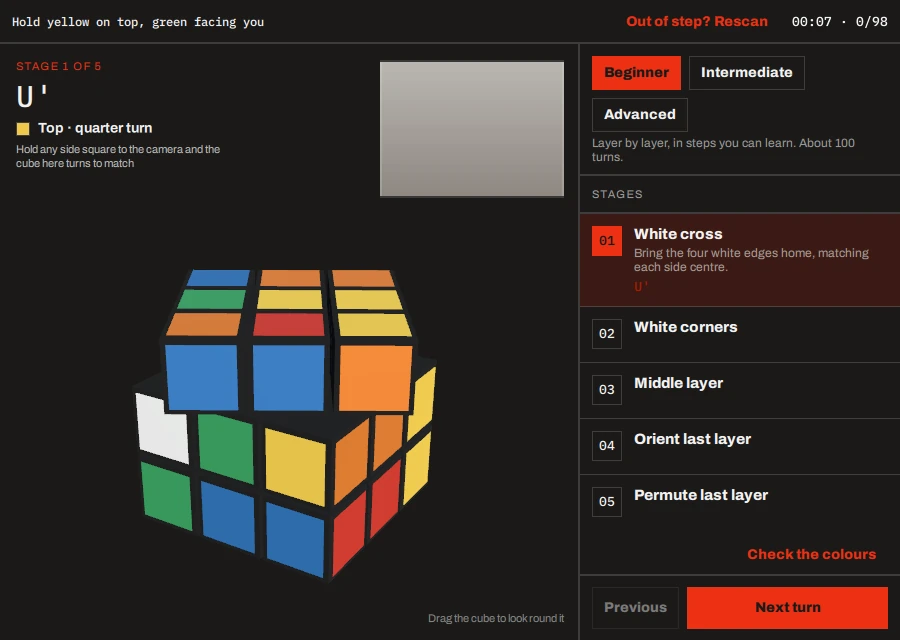
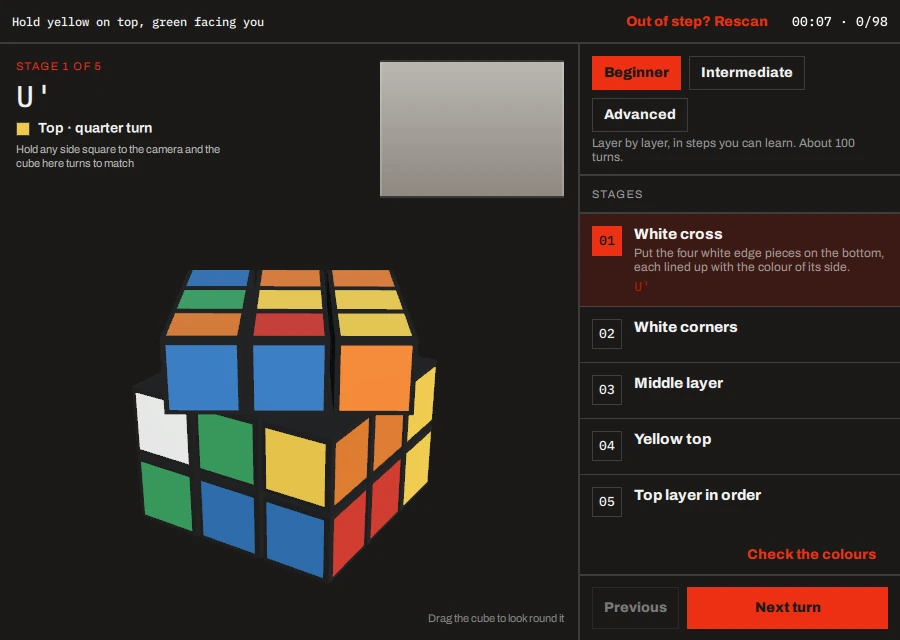
Retake the guide pictures that changed since the last refresh
Settings has a Motion row under Appearance, the solve screen names stages
four and five Yellow top and Top layer in order and has a sentence under
the current stage, the scan screen reads Reading this side. Hold it there,
the scan size row marks only Auto while sizing, and the About line is now
A camera-driven cube solver. The pictures of those screens were taken
before, so they are retaken from the screenshot tour on develop.

Only the pictures whose screens changed are replaced. The others came out
of the tour identical to the eye (drawn-cube noise and the time of day in
the history rows), and committing them would add binary churn for nothing.

The Settings pictures are cut a little lower because the Motion row pushed
the rest down: the wide one after the Cube motion buttons, the narrow one
just under Snapshot now. The tool's comments say how to find the heights
again and give the taller scratch window for the narrow picture. The alt
text of the Settings picture names the Motion row.

Changed region(s): [[0.7156, 0.375, 0.9956, 0.4375], [0.6844, 0.6562, 0.84, 0.7188], [0.6844, 0.75, 0.8711, 0.7812]]

diff --git a/tools/docs/update_guide_screenshots.py b/tools/docs/update_guide_screenshots.py
@@ -31,7 +31,7 @@ Notes for whoever does step 2:
 * The tour runs at 900x640 (wide) and 390x844 (narrow), light and dark. The
   guide's Settings pictures were taken with the window made about twice as
   tall for that one shot (a scratch edit in tour_test.cpp, like the other two:
-  `app.resize` to 900x1280 wide or 390x1688 narrow and `app.settle()` before
+  `app.resize` to 900x1280 wide or 390x1800 narrow and `app.settle()` before
   `tour.shoot("settings")`, then `app.resize(variant.size)` after it), and
   both are then cropped (CROP_HEIGHT below).
 * A scratch run for the pictures also renames the fake camera in
@@ -85,13 +85,15 @@ USED = [
 
 # Pictures cut to a height, so that one does not end on a heading with nothing
 # under it: Settings in the wide tour is taller than the tour's window made for
-# it, and stops part-way down the Rendering section. The narrow one runs to the
-# end of the Developer section and is cut just under "Snapshot now": the line
-# below it names the folder the diagnostics go to, which in a tour run is a
-# temporary folder of the machine it ran on, and must not be in a picture.
+# it, and is cut after the Cube motion buttons, just above the Rendering heading.
+# The narrow one runs to the end of the Developer section and is cut just under
+# "Snapshot now": the line below it names the folder the diagnostics go to, which
+# in a tour run is a temporary folder of the machine it ran on, and must not be in
+# a picture. Both heights move when a row is added to Settings: find them by
+# looking for the first blank rows under the last button to keep.
 CROP_HEIGHT = {
-    ("settings", "wide"): 1115,
-    ("settings", "narrow"): 1597,
+    ("settings", "wide"): 1197,
+    ("settings", "narrow"): 1680,
 }
 
 

diff --git a/docs/guide/settings.md b/docs/guide/settings.md
@@ -7,8 +7,8 @@ progress starts again from the first side, because the camera is closed while
 Settings is open.
 
 <figure markdown="span">
-  ![Settings: Camera, Solving, Appearance, Language, History, Cube style and Cube motion, with a 3D cube beside them.](img/settings-wide-light.webp#only-light){ loading=lazy }
-  ![Settings: Camera, Solving, Appearance, Language, History, Cube style and Cube motion, with a 3D cube beside them.](img/settings-wide-dark.webp#only-dark){ loading=lazy }
+  ![Settings: Camera, Solving, Appearance with its Motion row, Language, History, Cube style and Cube motion, with a 3D cube beside them.](img/settings-wide-light.webp#only-light){ loading=lazy }
+  ![Settings: Camera, Solving, Appearance with its Motion row, Language, History, Cube style and Cube motion, with a 3D cube beside them.](img/settings-wide-dark.webp#only-dark){ loading=lazy }
   <figcaption>The top of Settings on a desktop window. The list goes on, to
   Rendering, About and the Developer rows, and scrolls.</figcaption>
 </figure>
